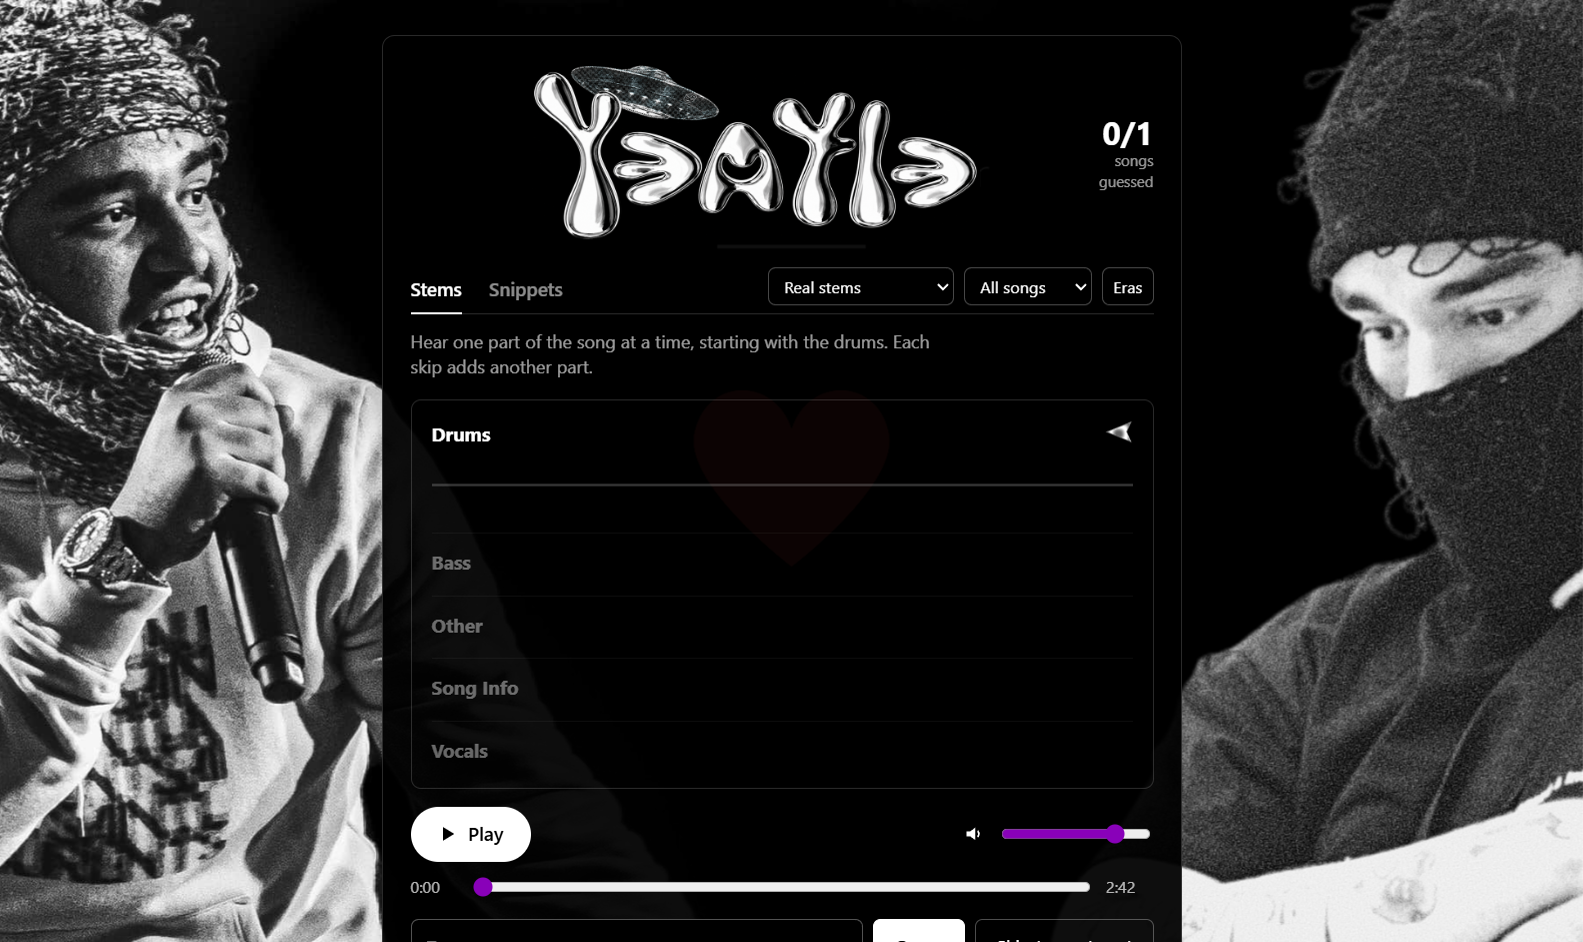
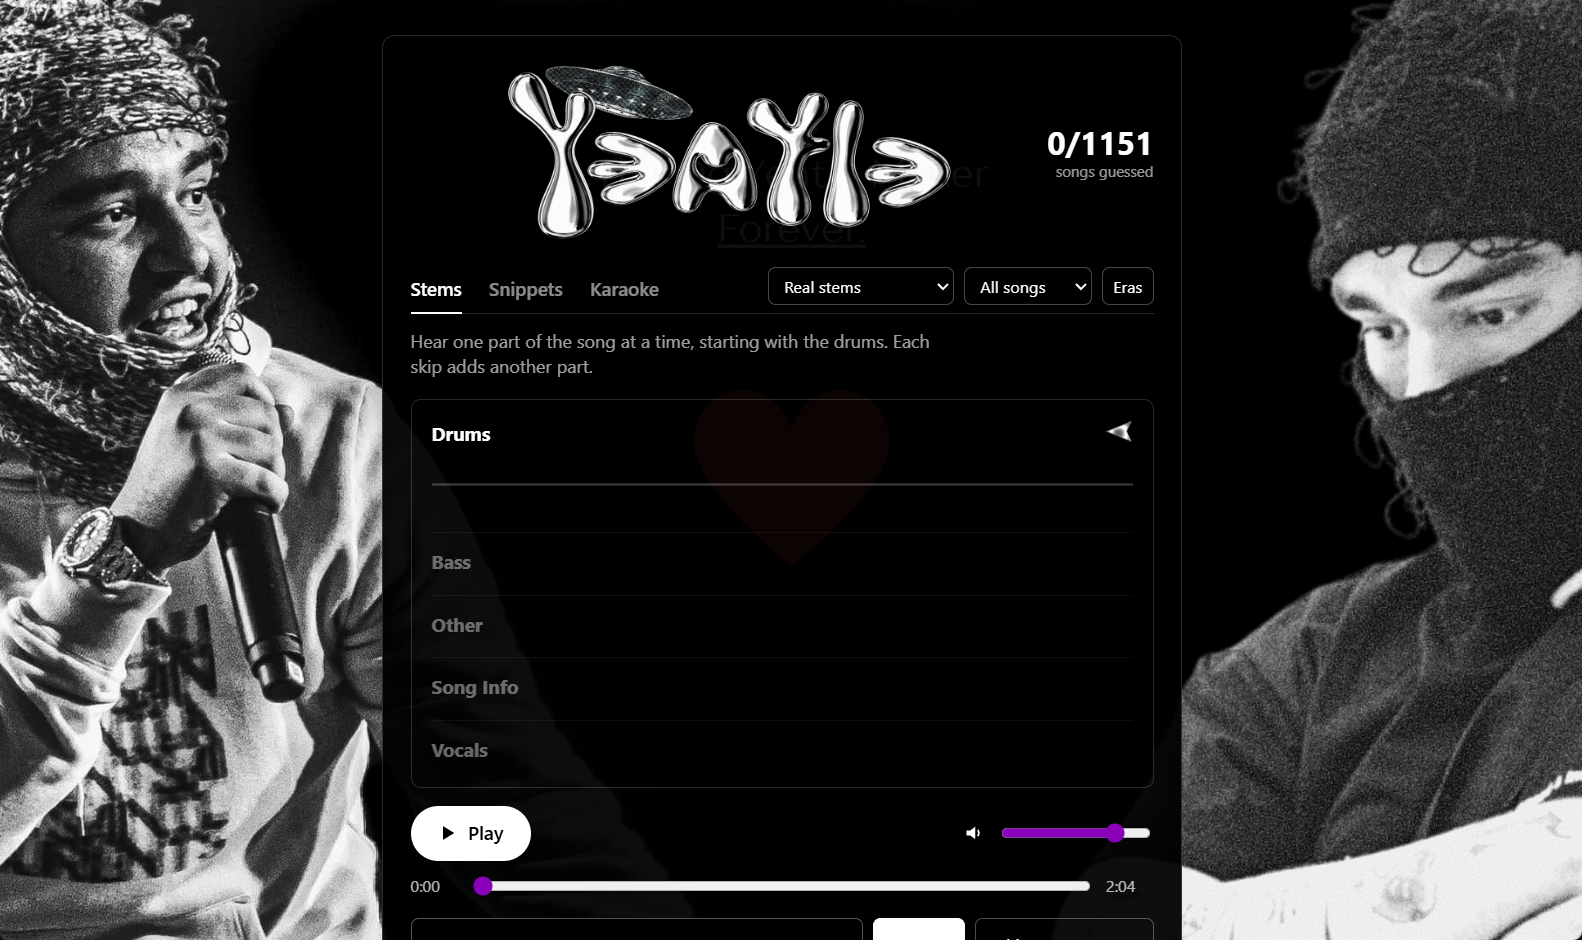
Refresh README screenshot with Karaoke tab visible

diff --git a/README.md b/README.md
@@ -2,7 +2,7 @@
 
 Yeatle is a Yeat song guessing game with online, desktop, and local browser versions. Test your knowledge of released and unreleased tracks, choose the eras you want to play, and guess songs from isolated stems, filtered audio, or short snippets.
 
-![Yeatle running in its desktop window](docs/desktop-preview.png)
+![Yeatle desktop app with Stems, Snippets, and Karaoke tabs](docs/desktop-preview.png)
 
 **The original Yeatle application was vibecoded in its entirety**: it was
 created through AI-assisted coding by the original creator from the
